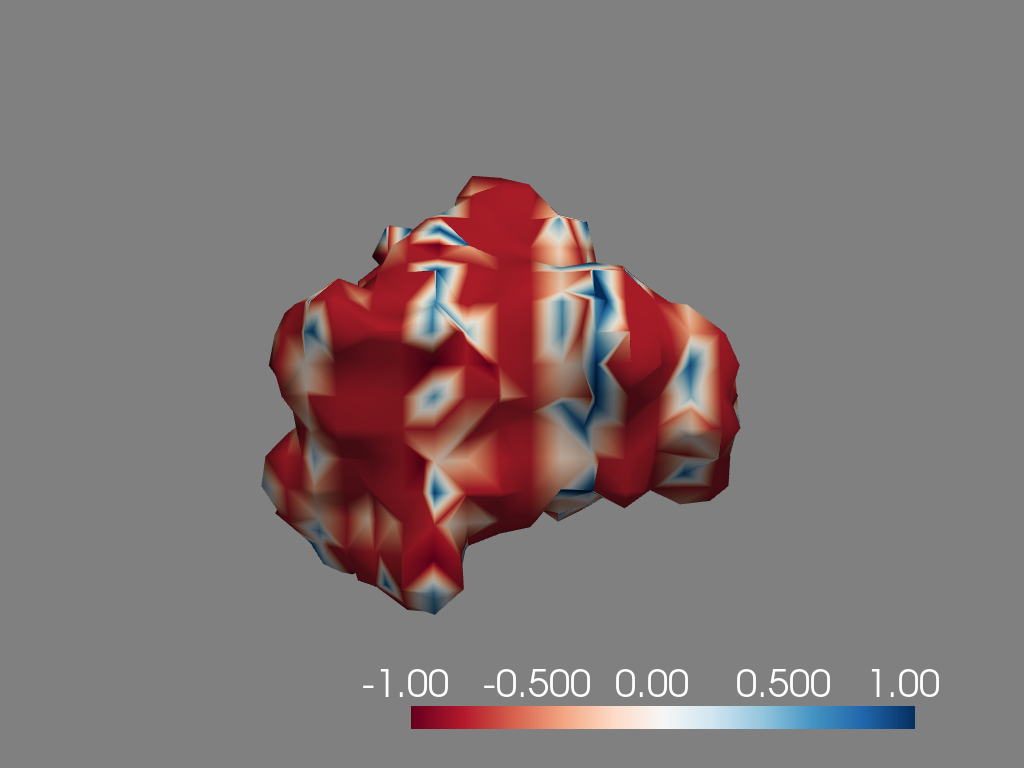
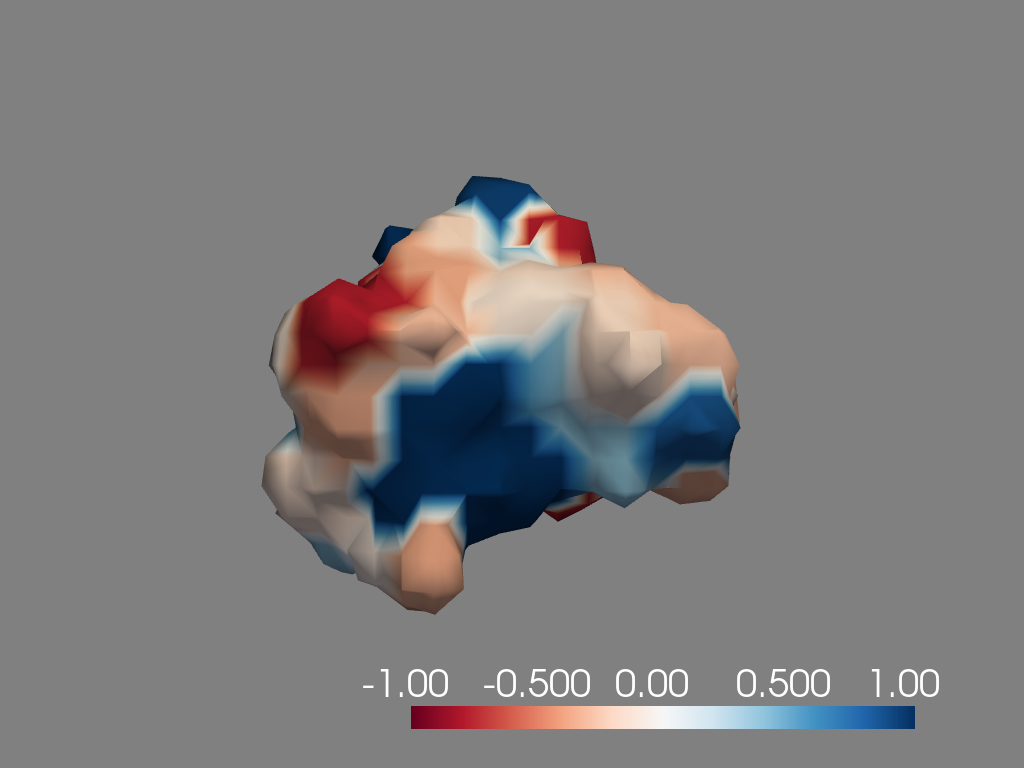
Native mesh actually native

Changed region(s): [[0.25, 0.2188, 0.75, 0.8125]]

diff --git a/provis/src/processing/data_handler.py b/provis/src/processing/data_handler.py
@@ -32,9 +32,10 @@ class DataHandler:
         """
         self._path, self._out_path, self._base_path = nc.return_all()
         if not fc:
-            self._fc = FileConverter(fc)
+            self._fc = FileConverter(nc)
         else:
             self._fc = fc
+        
         self._fc.pdb_to_xyzrn(self._path, self._out_path)
         
         parser = PDBParser()
@@ -66,7 +67,7 @@ class DataHandler:
         :param name: show_solvent - If True solvent molecules also added to retrun dictionary. Default: False.
         :param type: bool, optional
         
-        :return: dict - Dictionary of atomic coordinates by atom type.
+        :returns: dict - Dictionary of atomic coordinates by atom type.
         """
         # load file into a python list
         residues = self._structure.get_residues()
@@ -94,7 +95,9 @@ class DataHandler:
         """
         Get atomic coordinates and residue IDs (format from output_pdb_as_xyzrn()) from the xyzrn file.
 
-        :returns: 
+        :returns: dict - Dictionary of atomic coordinates by atom type.
+        :returns: list - List of unique residue IDs (format from output_pdb_as_xyzrn())
+        :returns: list - Atomic coordinates (in same order as the residue IDs)
         """
         xyzrnfile = open(self._out_path + ".xyzrn")
         meshdata = (xyzrnfile.read().rstrip()).split("\n")
@@ -104,6 +107,7 @@ class DataHandler:
         res_id = [""] * lenm
         
         atom_data = dict()
+        atom_coords = []
         for vi in range(lenm):
             fields = meshdata[vi].split()
             vertices = [None] * 3
@@ -118,16 +122,17 @@ class DataHandler:
             # If atom already in dictionary, append its coordinates to list
             else:
                 atom_data[atmtype].append(vertices)
+            atom_coords.append(vertices)
 
 
         # return the 3D positions of atoms organized by atom type
-        return atom_data, res_id
+        return atom_data, res_id, atom_coords
 
     def get_residues(self):
         """
         Creates a dictionary of coordinates by residues from structure object
         
-        :return: dict - Dictionary of atomic coordinates by residue type.
+        :returns: dict - Dictionary of atomic coordinates by residue type.
         """
 
         # load file into a python list
@@ -162,7 +167,7 @@ class DataHandler:
         :param name: option - choose what property of residue you want. com for Centre Of Mass, ch for charge
         :param type: str - options: com, ch
         
-        :return: list - List of COM coords of given (exact) residue.
+        :returns: list - List of COM coords of given (exact) residue.
         """
         
         # load info for given residue
@@ -211,7 +216,7 @@ class DataHandler:
         """
         Return the loaded structure object
         
-        :return: structure
+        :returns: structure
         """
         return self._structure
         
@@ -231,8 +236,8 @@ class DataHandler:
         :param name: theta_res - pyvista theta_resolution for Sphere objects representing atoms. Default: 10.
         :param type: int, optional
         
-        :return: list - List of pyvista Shperes representing each atom
-        :return: list - List of colors corresponding to each atom
+        :returns: list - List of pyvista Shperes representing each atom
+        :returns: list - List of colors corresponding to each atom
         """
         # these two dictionaries have to be manually created
         # also, if more/other atoms present in protein it will not work
@@ -274,8 +279,8 @@ class DataHandler:
         :param name: probe - size of probe (representing the solvent size) needed for surface calculation. Default: 0.
         :param type: int, optional
         
-        :return: list - List of pyvista Shperes representing each atom
-        :return: list - List of colors for each atom
+        :returns: list - List of pyvista Shperes representing each atom
+        :returns: list - List of colors for each atom
         """
         # these two dictionaries have to be manually created
         # also, if more/other atoms present in protein it will not work
@@ -324,8 +329,8 @@ class DataHandler:
         :param name: theta_res - pyvista theta_resolution for Sphere objects representing atoms. Default:25.
         :param type: int, optional
         
-        :return: list - List of pyvista Shperes representing each residue
-        :return: list - List of colors for each residue
+        :returns: list - List of pyvista Shperes representing each residue
+        :returns: list - List of colors for each residue
         """
 
         # create glyphs (spherical) to represent each res
@@ -367,18 +372,15 @@ class DataHandler:
             Purple for all aromatic bonds,
             Black for everything else.
         
-        :return: list - List of pyvista lines representing each bond.
-        :retrun: list - List of colors corresponding to the lines in the above list
+        :returns: list - List of pyvista lines representing each bond.
+        :retruns: list - List of colors corresponding to the lines in the above list
         """
         fname = self._out_path + ".mol2"
 
         # Check if mol2 file exists. If not convert it from pdb
         file_exists = exists(fname)
-        if self._fc:
-            if not file_exists:
-                self._fc.pdb_to_mol2(self._path, self._out_path)
-        else:
-            print("Temporary files were not created! Please instantiate a FileConverter class with parameters.")
+        if not file_exists:
+            self._fc.pdb_to_mol2(self._path, self._out_path)
             
         pmol = PandasMol2().read_mol2(fname)
         bonds_in = bond_parser(fname)

diff --git a/provis/src/processing/surface_handler.py b/provis/src/processing/surface_handler.py
@@ -11,8 +11,10 @@ from pyvtk import PolyData, PointData, CellData, Scalars, Vectors, VtkData
 import trimesh
 from subprocess import PIPE, Popen
 import open3d as o3d
+import enum
+from os.path import exists
 
-from provis.utils.surface_utils import get_surface, compute_normal, prepare_trimesh, fix_trimesh
+from provis.utils.surface_utils import get_surface, compute_normal, prepare_trimesh, fix_trimesh, find_nearest_atom
 from provis.utils.surface_feat import compute_surface_features
 from provis.src.processing.file_converter import FileConverter
 from provis.src.processing.data_handler import DataHandler
@@ -50,7 +52,7 @@ class SurfaceHandler:
         else:
             self._dh = dh
         if not fc:
-            self._fc = FileConverter(fc)
+            self._fc = FileConverter(nc)
         else:
             self._fc = fc
         self._path, self._out_path, self._base_path = nc.return_all()
@@ -58,6 +60,8 @@ class SurfaceHandler:
         self._features = None
         self._mesh = None
         self._col = None
+        self._res_id = None
+        self._atom_coords = None
         
     def get_assignments(self):
         """
@@ -71,7 +75,7 @@ class SurfaceHandler:
         
         return assigment
 
-    def get_surface_features(self, mesh, feature):
+    def get_surface_features(self, mesh, feature,  res_id=None):
         """
         Get the coloring corresponding to a specific feature.
 
@@ -79,6 +83,8 @@ class SurfaceHandler:
         :param type: Trimesh
         :param name: feature - Name of feature we are interested in. Options: hydrophob, shape, charge.
         :param type: str
+        :param name: native - Set to True when using native mesh computation. Default: False.
+        :param type: bool, optional
         
         :raises: NotImplementedError - If unkown feature specified error is raised
 
@@ -88,26 +94,19 @@ class SurfaceHandler:
         # get surface
         pdb_file = self._path + '.pdb'
         
-        path = f"{self._out_path}_out_{int(self._density * 10)}"
-        face = path + '.face'
-        vert = path + '.vert'
-        face = path + '.face'
-        from os.path import exists
-        # Check if face file exists. If not convert it from pdb
-        file_exists = exists(face) and exists(vert)
-        if self._fc:
-            if not file_exists:
-                self._fc.msms(self._out_path, self._density)
-                self._fc.pdb_to_pqr(self._path, self._out_path)
-        else:
-            print("Temporary files were not created! Please instantiate a FileConverter class with parameters.")
+        pqr_file = self._out_path + '.pqr'
+        if not exists(pqr_file):
+            self._fc.pdb_to_pqr(self._path, self._out_path)
         
-        surface = get_surface(self._out_path, density=self._density)
-
+        if not res_id:
+            surface = get_surface(self._out_path, density=self._density)
+        else:
+            full_res_id = find_nearest_atom(self._atom_coords, res_id, mesh.vertices)
+            
+            surface = [mesh.vertices, mesh.faces, mesh.face_normals, full_res_id, mesh.area_faces]
+            
         # compute features of surface
         if not self._features:
-            # print(surface)
-            # print(mesh)
             self._features = compute_surface_features(surface, pdb_file, self._out_path, mesh, pdb_id = self._path)
 
         if feature == 'hydrophob':
@@ -131,6 +130,15 @@ class SurfaceHandler:
         :returns: Trimesh - The mesh, always returned
         :returns: numpy.ndarray - Color map corresponding to specified feature. Only returned if a feature is specified as an input. This map can be passed to a pyvista.Plotter.add_mesh() function as the 'scalars' argument to get the encoded coloring.
         """
+        
+        path = f"{self._out_path}_out_{int(self._density * 10)}"
+        face = path + '.face'
+        vert = path + '.vert'
+        from os.path import exists
+        # Check if face file exists. If not convert it from pdb
+        file_exists = exists(face) and exists(vert)
+        if not file_exists:
+            self._fc.msms(self._out_path, self._density)
         
         if not self._mesh:
             surface = get_surface(out_path=self._out_path, density=self._density)
@@ -158,7 +166,7 @@ class SurfaceHandler:
         """
         if not self._mesh:
             #old      
-            atom_data = self._dh.get_atoms()
+            atom_data, self._res_id, self._atom_coords = self._dh.get_atoms_IDs()
             self._atmsurf, col = self._dh.get_atom_mesh(atom_data, vw=1, probe=0.1)
             #old
 
@@ -184,7 +192,6 @@ class SurfaceHandler:
             shell =  mesh.clean().reconstruct_surface()#.clean()
             # WORKING
             shell.compute_normals(inplace=True)
-            
             # parse list of PolyData (format) faces and convert them into Trimesh (format) faces 
             len_f = len(shell.faces)
             faces_ = []
@@ -206,7 +213,7 @@ class SurfaceHandler:
 
         # only needed if feature is specified (-> color map needs to be calculated)
         if feature:
-            self._col = self.get_surface_features(self._mesh, feature)
+            self._col = self.get_surface_features(self._mesh, feature, self._res_id)
         else:
             self._col = None
 

diff --git a/provis/src/processing/file_converter.py b/provis/src/processing/file_converter.py
@@ -12,7 +12,7 @@ class FileConverter():
     However if you want to plot the same protein many times, then it is benificial to keep the temporary (data/tmp) files as if they exist provis will not recompute them.
     """
     
-    def __init__(self, nc, density=None, plot_solvent=0):
+    def __init__(self, nc, density=None, plot_solvent=0, convert_all=False):
         """
         Can be constructed empty. If called with arguments conversions instant. Creates xyzr and mol2 files in every case and face and vert files if msms binary exists.
 
@@ -20,16 +20,24 @@ class FileConverter():
         :param type: str, optional
         :param name: density - Density of triangles. Default: None.
         :param type: float, optional
-        :param name: plot_solvent - set to True if you want to plot solvent atoms as well. Default: False.
+        :param name: plot_solvent - Set to True if you want to plot solvent atoms as well. Default: False.
         :param type: bool, optional
         :param name: base_path - Path to "working directory" according to the rules of NameChecker().
         :param type: str, optional
+        :param name: convert_all - Set to True if you want to convert all necessairy files on initialization. Default: False.
+        :param type: bool, optional
         """
 
         self._solv = plot_solvent
         self._path, self._out_path, self._base_path = nc.return_all()
         if density:
             self._dens = density
+        if convert_all:
+            self.pdb_to_xyzrn(self._path, self._out_path)
+            self.msms(self._path, density)
+            self.pdb_to_mol2(self._path, self._out_path)
+            self.pdb_to_pqr(self._path, self._out_path)
+            
     
     def pdb_to_xyzrn(self, path, output):
         """

diff --git a/examples/example2.py b/examples/example2.py
@@ -18,13 +18,10 @@ def main():
     name = "/home/kczi/Documents/provis/data/pdb/2fd7"
     base_path='/home/kczi/Documents/provis/'
     density = 3.0
-    solvent = 0
-    bash = 0
     
     """
     Second:
-    Initializing the NameChecker class will store the name of the pdb file and output path.
-    This class is usually initialized when by the FileConverter class, but if you have the necessairy files you do not need to call the FileConverter class at all.
+    Initializing the NameChecker class will find and store the path of the pdb file and output path.
     """
     nc = NameChecker(name, base_path)
     
@@ -32,7 +29,7 @@ def main():
     Third:
     Surface is a class that handles all plotting related to surfaces. This includes basic surface visualization as well as the surface properties.
     """
-    s = Surface(nc, dens=density)
+    s = Surface(nc, density=density)
     s.plot_surface()    
     s.plot_hydrophob()
     s.plot_shape()

diff --git a/provis/utils/surface_utils.py b/provis/utils/surface_utils.py
@@ -5,6 +5,7 @@ Utilities for preparing and computing features on molecular surfaces.
 """
 import os
 import numpy as np
+from numpy.core.numeric import full
 from numpy.matlib import repmat
 from Bio.PDB import PDBParser, Selection
 from subprocess import Popen, PIPE
@@ -307,3 +308,19 @@ def fix_trimesh(mesh, resolution: float = 1.0):
     mesh, _ = trimesh.remove_duplicated_vertices(mesh, 0.001)
 
     return mesh
+
+def find_nearest_atom(coords, res_id, new_verts):
+    j = len(res_id)
+    el = res_id[j-1]
+    full_res_id = []
+    
+    from scipy import spatial
+    #airports = new_verts
+    tree = spatial.KDTree(coords)
+    
+    for i in range(len(new_verts)):
+        dist, loc = tree.query(new_verts[i])
+        lenr = len(res_id)
+        full_res_id.append(res_id[loc])
+        
+    return full_res_id

diff --git a/examples/example1.py b/examples/example1.py
@@ -30,7 +30,7 @@ def main():
     The FileConverter class also initializes the NameChecker class, thus storing the name of the pdb file and output path to be used globally.
     """
     nc = NameChecker(name)
-    fc = FileConverter(nc, density, solvent) 
+    fc = FileConverter(nc, density, solvent, convert_all=True) 
     
     """
     Third:
@@ -54,7 +54,7 @@ def main():
     It is worth to mention however, that sometimes it is worth to keep the temporary files if you want to visualize this protein later on.
     If you keep the temporary files they will not have to be computed again and visualization will be quicker.
     """
-    # fc.cleanup(delete_img=0)
+    fc.cleanup(delete_img=0)
 
 if __name__ == "__main__":
     main()

diff --git a/provis/src/processing/protein.py b/provis/src/processing/protein.py
@@ -14,7 +14,7 @@ class Protein:
     For example: my_protein.structure.plot_atoms()
     """
   
-    def __init__(self, pdb_name, base_path=None, density=3.0, plot_solvent=False, msms=True, notebook=False):
+    def __init__(self, pdb_name, base_path=None, density=3.0, plot_solvent=False, msms=False, notebook=False):
         """
         Initialize the class with the name of the pdb file and you are ready for plotting!
         
